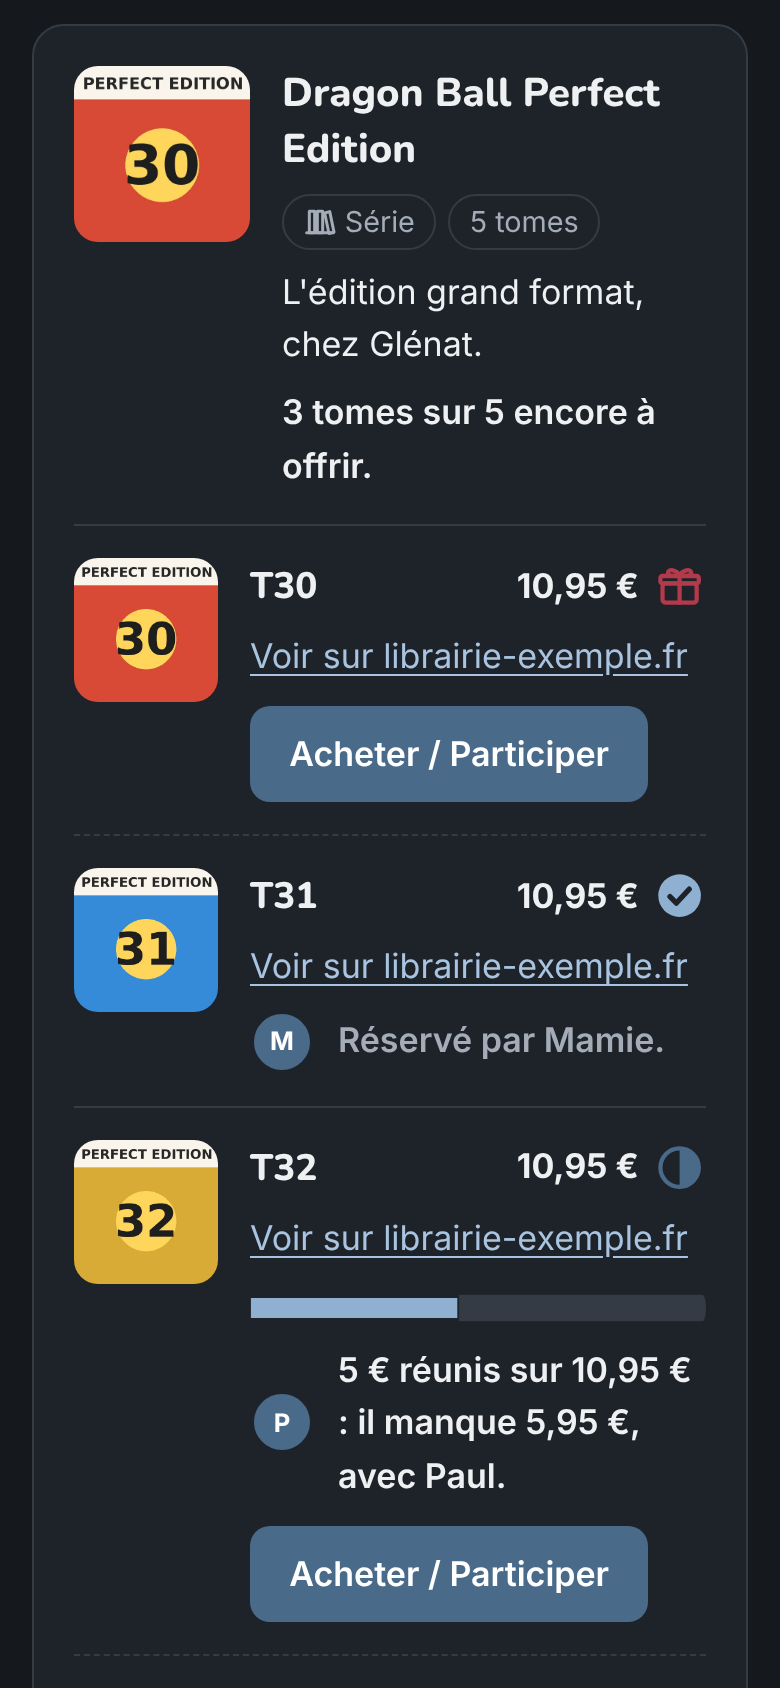
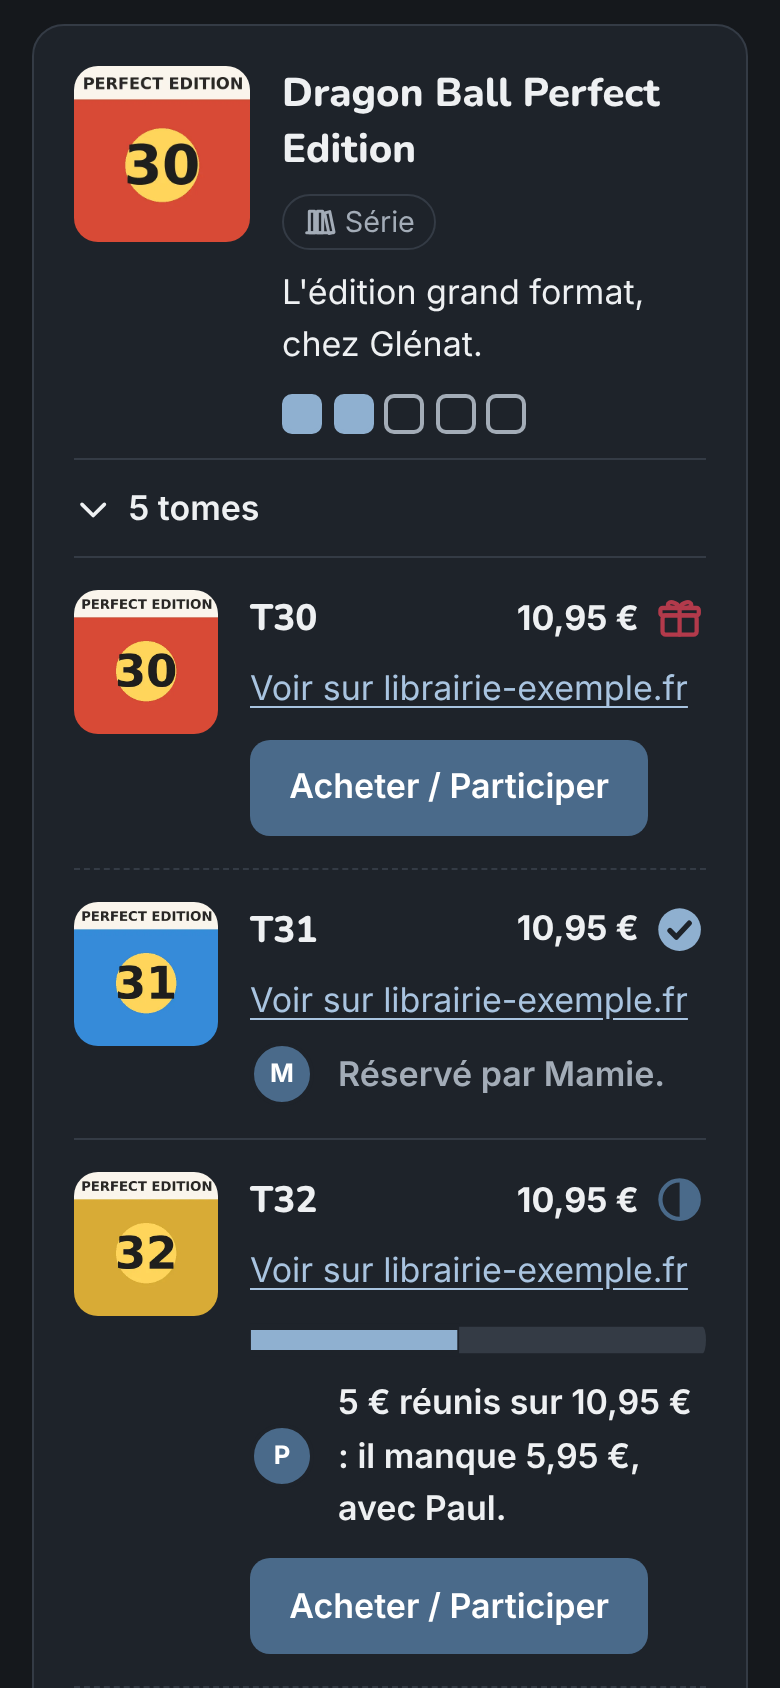
Fold a series' volumes; the guests see one box per volume
The volumes fold under « 5 tomes » on the owner's and the guests' cards; the field that adds a
volume stays visible. The guests' count becomes the boxes of a gift wanted in several copies.

Claude-Session: https://claude.ai/code/session_01RHrAMzDkY9qHSsujVtqQ3V

diff --git a/packages/ui/src/public/SeriesCard.svelte b/packages/ui/src/public/SeriesCard.svelte
@@ -6,6 +6,7 @@
   import Gallery from "../Gallery.svelte";
   import Icon from "../Icon.svelte";
   import { useI18n } from "../i18n.ts";
+  import Copies from "./Copies.svelte";
   import ItemCard from "./ItemCard.svelte";
   import type { PublicEvent, PublicItem } from "./types.ts";
   import { seriesLeft } from "./view.ts";
@@ -60,7 +61,6 @@
       <h2 id={headingId}>{series.title}</h2>
       <p class="tags">
         <span class="tag with-icon"><Icon name="series" size="1rem" />{m.kind.series}</span>
-        <span class="tag">{m.series.volumes(volumes.length)}</span>
       </p>
       {#if series.notes}<p class="notes">{series.notes}</p>{/if}
       {#if scope === "list" && series.eventIds.length > 0}
@@ -68,17 +68,31 @@
           {m.forEvents(i18n.fmt.list(series.eventIds.flatMap((id) => eventsById.get(id)?.name ?? [])))}
         </p>
       {/if}
-      {#if left}<p class="standing" class:done={complete}>{m.series.left(left.left, left.total)}</p>{/if}
+      {#if left}
+        {#if left.total <= 24}
+          <!-- One box per volume, as for a gift wanted in several copies; its words for a screen reader -->
+          <Copies wanted={left.total} taken={left.total - left.left} />
+          <p class="visually-hidden">{m.series.left(left.left, left.total)}</p>
+        {:else}
+          <p class="standing" class:done={complete}>{m.series.left(left.left, left.total)}</p>
+        {/if}
+      {/if}
     </div>
   </div>
   {#if volumes.length > 0}
-    <ul class="volumes" aria-label={m.series.listLabel(series.title)}>
-      {#each volumes as entry (entry.id)}
-        <ItemCard item={entry} {events} {scope} label={volumeLabel(entry.title, series.title)}>
-          {@render volume?.(entry)}
-        </ItemCard>
-      {/each}
-    </ul>
+    <!-- Folded by default: the card stays short, its summary says how many volumes it holds -->
+    <details class="fold">
+      <summary>
+        <Icon name="chevronRight" size="1.2rem" />{m.series.volumes(volumes.length)}
+      </summary>
+      <ul class="volumes" aria-label={m.series.listLabel(series.title)}>
+        {#each volumes as entry (entry.id)}
+          <ItemCard item={entry} {events} {scope} label={volumeLabel(entry.title, series.title)}>
+            {@render volume?.(entry)}
+          </ItemCard>
+        {/each}
+      </ul>
+    </details>
   {/if}
 </li>
 
@@ -147,6 +161,37 @@
   }
   .standing.done {
     color: var(--text-2);
+  }
+  .fold {
+    margin-top: 0.75rem;
+    border-top: 1px solid var(--border);
+  }
+  .fold summary {
+    display: flex;
+    align-items: center;
+    gap: 0.5rem;
+    min-height: 48px;
+    cursor: pointer;
+    font-weight: 600;
+    list-style: none;
+  }
+  .fold summary::-webkit-details-marker {
+    display: none;
+  }
+  .fold summary :global(.icon) {
+    transition: transform 0.15s ease;
+  }
+  .fold[open] summary :global(.icon) {
+    transform: rotate(90deg);
+  }
+  @media (prefers-reduced-motion: reduce) {
+    .fold summary :global(.icon) {
+      transition: none;
+    }
+  }
+  /* The first volume starts right under the summary */
+  .volumes > :global(.nested:first-child) {
+    margin-top: 0;
   }
   .volumes {
     list-style: none;

diff --git a/apps/web-app/src/routes/(app)/listes/[id]/+page.svelte b/apps/web-app/src/routes/(app)/listes/[id]/+page.svelte
@@ -554,7 +554,7 @@
     <h3>{series.title}</h3>
     <p class="muted meta">
       <span class="kind with-icon">
-        <Icon name="series" size="1.2rem" />{s.kind} · {s.volumes(volumes.length)}
+        <Icon name="series" size="1.2rem" />{s.kind}
       </span>
       {#if total !== null}<span class="price">{s.total(i18n.fmt.money(total))}</span>{/if}
     </p>
@@ -628,16 +628,21 @@
       {#if others.length > 0}<button type="submit">{s.gather.submit}</button>{/if}
     </form>
   {/if}
-  <div class="wide">
-    {#if volumes.length === 0}
-      <p class="muted">{s.empty}</p>
-    {:else}
+  <!-- Folded by default; open while one of its volumes is being edited -->
+  {#if volumes.length === 0}
+    <p class="muted wide">{s.empty}</p>
+  {:else}
+    <details class="fold wide" open={volumes.some((volume) => volume.id === editing)}>
+      <summary><Icon name="chevronRight" size="1.2rem" />{s.volumes(volumes.length)}</summary>
       <ol class="volumes" aria-label={appMessages(i18n.locale).series.volumes(volumes.length)}>
         {#each volumes as volume (volume.id)}
           {@render volumeRow(volume, series, wanted)}
         {/each}
       </ol>
-    {/if}
+    </details>
+  {/if}
+  <!-- Adding a volume stays at hand, folded or not -->
+  <div class="wide">
     <form method="POST" action="?/addVolume" class="add-volume" use:enhance>
       <input type="hidden" name="parentId" value={series.id} />
       <label class="visually-hidden" for="tome-{series.id}">{s.addVolume.label(series.title)}</label>
@@ -991,6 +996,25 @@
     display: inline-flex;
     align-items: center;
     gap: 0.35rem;
+  }
+  /* A series' volumes fold under their summary, its chevron turning as it opens */
+  .fold summary {
+    gap: 0.5rem;
+    list-style: none;
+  }
+  .fold summary::-webkit-details-marker {
+    display: none;
+  }
+  .fold summary :global(.icon) {
+    transition: transform 0.15s ease;
+  }
+  .fold[open] summary :global(.icon) {
+    transform: rotate(90deg);
+  }
+  @media (prefers-reduced-motion: reduce) {
+    .fold summary :global(.icon) {
+      transition: none;
+    }
   }
   .volumes {
     list-style: none;

diff --git a/docs/series.md b/docs/series.md
@@ -48,15 +48,19 @@ it comes back whole when the volume leaves the series.
 
 ![A series on a phone, in dark mode](images/app-series-dark.png)
 
-The series' square shows its own image, or else the first volume's. The count of wishes of a list
+The volumes fold under « 5 tomes »: a chevron unfolds them, and they stay open while one of them is
+being edited. The field that adds a volume stays under the card, folded or not. The series' square
+shows its own image, or else the first volume's. The count of wishes of a list
 counts the volumes one by one, never the series.
 
 ## For the guests
 
 ![A series in the guests' view, on a phone in dark mode](images/public-series-dark.png)
 
-The guests see one card too: the series' name and notes, « Série · 5 tomes », and how many volumes
-are still to give (« 3 tomes sur 5 encore à offrir »). Under it, every volume has its square, its
+The guests see one card too: the series' name and notes, « Série », and one box per volume, filled
+once it is given, like a gift wanted in several copies (a screen reader hears « 3 tomes sur 5
+encore à offrir »; past 24 volumes, these words show instead). The volumes fold under « 5 tomes »;
+unfolded, every volume has its square, its
 price, its link, its badge (to give, partly given, given, received) and the same « Acheter /
 Participer » button as every wish: a volume with a price can be bought whole or shared, like any
 gift (see [Public view](public-view.md#giving)). The series itself takes no gift.

diff --git a/CHANGELOG.md b/CHANGELOG.md
@@ -17,7 +17,9 @@ All notable changes to this project are documented here. The format follows
   Perfect Edition »), and the series' « Ranger des envies dans la série » ticks the wishes whose name
   starts like it, in their reading order. A field on the card adds a new volume; icons move a volume
   up or down, take it out, undo the series, archive or delete it with its volumes.
-- The guests see how many volumes are still to give; a complete series goes down the list. An event
+- The volumes fold under « 5 tomes » on both cards, the owner's and the guests'; the field that adds
+  a volume stays visible. The guests see one box per volume, filled once it is given, as for a gift
+  wanted in several copies; a complete series goes down the list. An event
   selects a series whole, with every volume.
 - API: `parentId` on every item and `kind: "series"`; `POST /manage/lists/:id/series`,
   `POST /manage/items/:id/volumes`, `PUT /manage/items/:id/order`, `POST /manage/items/:id/ungroup`,

diff --git a/docs/public-view.md b/docs/public-view.md
@@ -110,9 +110,9 @@ it, the page stays in place and the focus goes back to the title.
 
 ## A series
 
-A series of volumes (a manga, a comic, a collection) is one card: its name, « Série · 5 tomes », how
-many are still to give, and its volumes inside it, each with its own square, price, link, badge and
-button. Each volume is given on its own, like any gift (see [Series](series.md)).
+A series of volumes (a manga, a comic, a collection) is one card: its name, « Série », one box per
+volume filled once it is given (as for several copies), and its volumes folded under « 5 tomes »,
+each with its own square, price, link, badge and button once unfolded. Each volume is given on its own, like any gift (see [Series](series.md)).
 
 ![A series in the guests' view](images/public-series.png)
 
